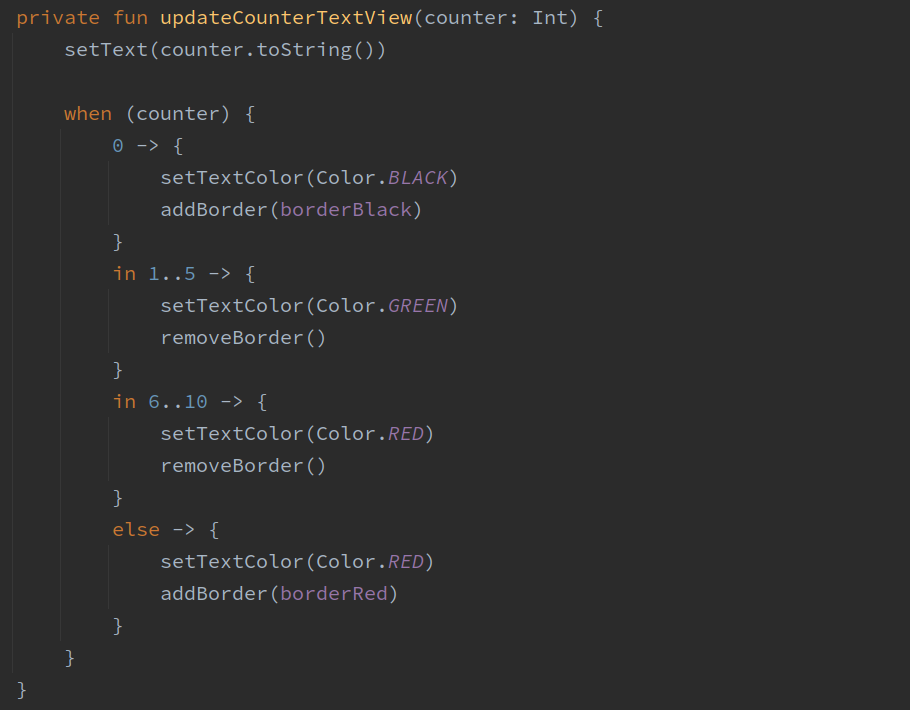
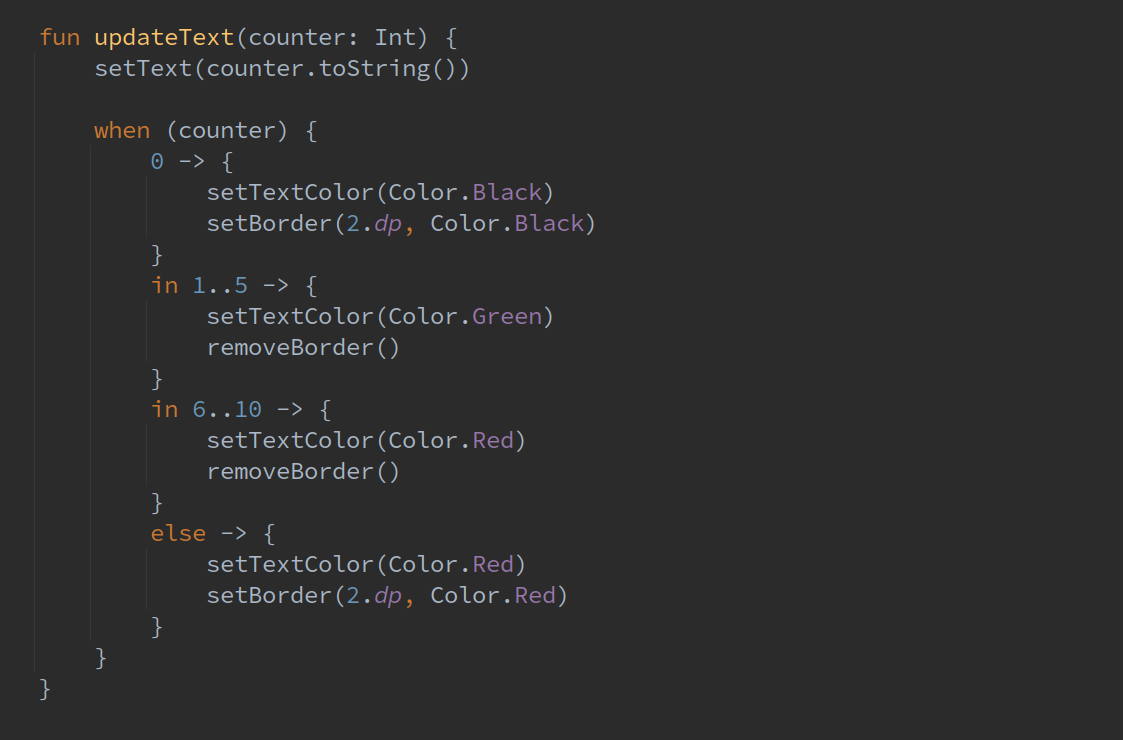
KKON2021: Switch code snippets with better suitable versions

diff --git a/src/main/kotlin/de/dbaelz/stellar/demo/kkon2021/ComposeForDesktopPresentation.kt b/src/main/kotlin/de/dbaelz/stellar/demo/kkon2021/ComposeForDesktopPresentation.kt
@@ -13,12 +13,13 @@ import androidx.compose.ui.Alignment
 import androidx.compose.ui.Modifier
 import androidx.compose.ui.draw.alpha
 import androidx.compose.ui.draw.clip
+import androidx.compose.ui.draw.clipToBounds
+import androidx.compose.ui.draw.scale
 import androidx.compose.ui.graphics.Color
 import androidx.compose.ui.layout.ContentScale
 import androidx.compose.ui.res.painterResource
 import androidx.compose.ui.text.font.FontWeight
 import androidx.compose.ui.text.style.TextAlign
-import androidx.compose.ui.text.style.TextDecoration
 import androidx.compose.ui.unit.dp
 import de.dbaelz.stellar.feature.presentation.*
 import de.dbaelz.stellar.theme.LatoTypography
@@ -72,6 +73,7 @@ private fun Caption() {
         })
 }
 
+// TODO: Still ugly. Should be improved
 @Composable
 private fun About() = AboutSlide(
     name = "Daniel Bälz",
@@ -160,6 +162,7 @@ private fun DeclarativeImperativeCaption() = CaptionSlide(
         )
     }
 )
+
 @Composable
 private fun DeclarativeImperativeStory() = TitleSlide(
     title = "Deklarative und Imperative UI",
@@ -225,9 +228,12 @@ private fun StoryText(range: String, text: String) {
 
 @Composable
 private fun ImperativeFunctionCode() = ImageSlide(
-    title = "Imperative UI: Pseudocode",
+    title = "Imperative UI: Code",
     image = painterResource("$PRESENTATION_RESOURCE_DIR/imperative-function-code.png"),
-    modifier = Modifier.fillMaxHeight(0.95f),
+    modifier = Modifier
+        .border(4.dp, MaterialTheme.colors.primary, RoundedCornerShape(16.dp))
+        .padding(2.dp)
+        .clip(RoundedCornerShape(16.dp)),
     footer = { Footer() },
 )
 
@@ -253,9 +259,13 @@ private fun ImperativeDefinition() = TitleSlide(
 
 @Composable
 private fun DeclarativeCode() = ImageSlide(
-    title = "Deklarative UI: Pseudocode",
+    title = "Deklarative UI: Code",
     image = painterResource("$PRESENTATION_RESOURCE_DIR/declarative-code.png"),
-    modifier = Modifier.fillMaxHeight(0.8f).padding(top = 100.dp),
+    contentScale = ContentScale.Inside,
+    modifier = Modifier
+        .border(4.dp, MaterialTheme.colors.primary, RoundedCornerShape(16.dp))
+        .padding(2.dp)
+        .clip(RoundedCornerShape(16.dp)),
     footer = { Footer() },
 )
 

diff --git a/src/main/kotlin/de/dbaelz/stellar/demo/kkon2021/UpdateText.kt b/src/main/kotlin/de/dbaelz/stellar/demo/kkon2021/UpdateText.kt
@@ -1,0 +1,80 @@
+package de.dbaelz.stellar.demo.kkon2021
+
+import androidx.compose.foundation.border
+import androidx.compose.material.Text
+import androidx.compose.runtime.Composable
+import androidx.compose.ui.Modifier
+import androidx.compose.ui.graphics.Color
+import androidx.compose.ui.unit.Dp
+import androidx.compose.ui.unit.dp
+
+
+class ImperativeText {
+
+
+    fun updateText(counter: Int) {
+        setText(counter.toString())
+
+        when (counter) {
+            0 -> {
+                setTextColor(Color.Black)
+                setBorder(2.dp, Color.Black)
+            }
+            in 1..5 -> {
+                setTextColor(Color.Green)
+                removeBorder()
+            }
+            in 6..10 -> {
+                setTextColor(Color.Red)
+                removeBorder()
+            }
+            else -> {
+                setTextColor(Color.Red)
+                setBorder(2.dp, Color.Red)
+            }
+        }
+    }
+
+
+    private fun setText(text: String) {
+
+    }
+
+    private fun setTextColor(color: Color) {
+
+    }
+
+    private fun setBorder(width: Dp, color: Color) {
+
+    }
+
+    private fun removeBorder() {
+
+    }
+}
+
+fun callImperativeText() {
+    ImperativeText().updateText(11)
+}
+
+@Composable
+fun DeclarativeText(counter: Int) {
+
+
+    Text(
+        text = counter.toString(),
+        color = when (counter) {
+            0 -> Color.Black
+            in 1..5 -> Color.Green
+            else -> Color.Red
+        },
+        modifier = when {
+            counter == 0 -> Modifier.border(2.dp, Color.Black)
+            counter >= 11 -> Modifier.border(2.dp, Color.Red)
+            else -> Modifier
+        }
+    )
+
+}
+
+

diff --git a/src/main/kotlin/de/dbaelz/stellar/demo/kkon2021/DeclarativeImperativeExample.kt b/src/main/kotlin/de/dbaelz/stellar/demo/kkon2021/DeclarativeImperativeExample.kt
@@ -65,5 +65,5 @@ private fun Counter(modifier: Modifier, counter: Int) {
 
 }
 
-private val Color.Companion. DarkGreen: Color
+private val Color.Companion.DarkGreen: Color
     get() = Color(0xFF00CF00)
